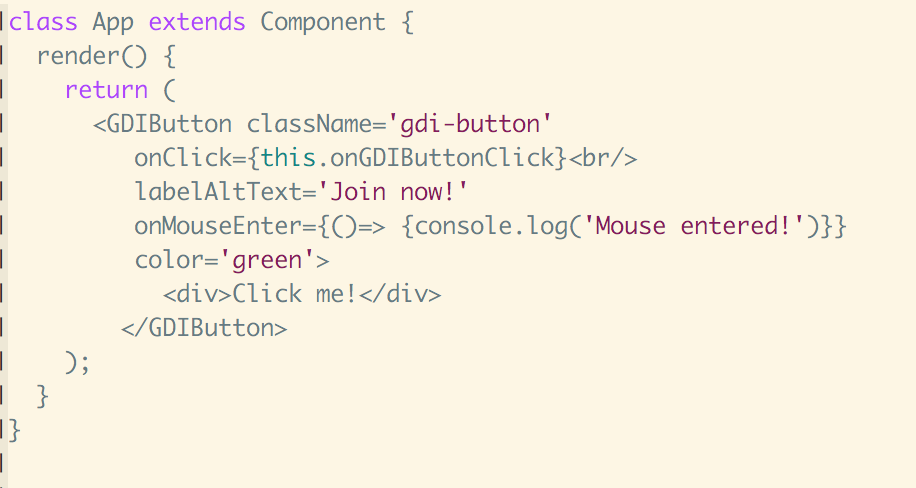
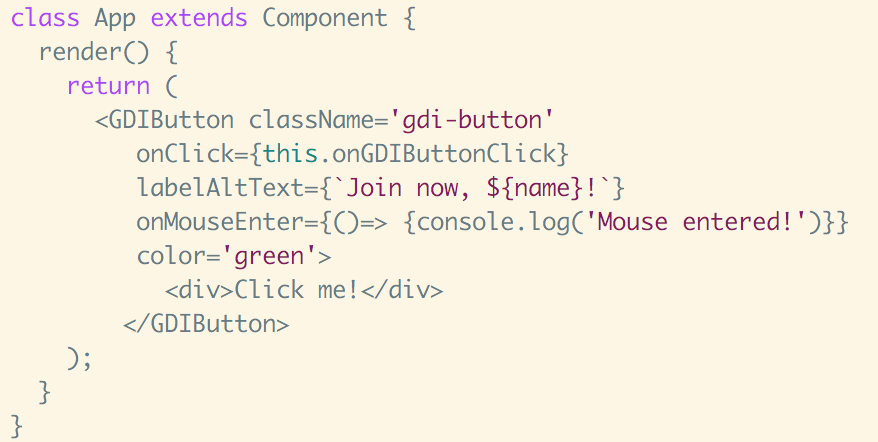
add whole gdi meetup app

diff --git a/part-1-react.html b/part-1-react.html
@@ -457,7 +457,7 @@
                     <li class="fragment">npm (node package manager) allows us to use code published by other developers.</li>
                     <li class="fragment">Use <code>npm install my-package-name</code> to install a package.</li>
                     <li class="fragment">External dependencies are registered in <code>package.json</code> at the root of your project - so anyone trying to run your code has a record of all of its dependencies</li>
-                    <li class="fragment">For this project, we need to use an npm module called <code>creat-react-app</code></li>
+                    <li class="fragment">For this project, we need to use an npm module called <code>create-react-app</code></li>
                   </ul>
                     
 <pre class="fragment"><code contenteditable class="javascript">
@@ -470,22 +470,21 @@ $ create-react-app my-app
 
                                 <section>
                                   <h3>npm project structure</h3>
+                                  <p>Let's see what running <code>create-react-app grocery-list</code> gave us!</p>
 <pre class="fragment"><code>
-                                    .
 ├── README.md
-├── node_modules
+├── node_modules*
 .   ├──
 .   ├── (all dependencies go here!)
 .   └──                                 
 ├── package.json
-├── public
+├── public*
 │   ├── favicon.ico
 │   └── index.html
-└── src
+└── src*
     ├── App.css
     ├── App.js
     ├── App.test.js
-    ├── add-grocery-button.js
     ├── index.css
     ├── index.js
 └── logo.svg
@@ -493,9 +492,48 @@ $ create-react-app my-app
 
                                 </section>
 
-                <section>
-                    <h3>JSX</h3>
-<pre class="fragment"><code contenteditable class="javascript">
+                                <section>
+                                  <h3>What a package.json file looks like</h3>
+<pre class="fragment"><code>
+{
+  "name": "sampleApp",
+  "version": "0.1.0",
+  "private": true,
+  "devDependencies": {           // <- npm modules we need in order 
+    "react-scripts": "0.8.5"     // to work with this code
+  },
+  "dependencies": {              // <- npm modules that we need 
+    "react": "^15.4.2",          // for our code to run
+    "react-dom": "^15.4.2"
+  },
+  "scripts": {                   // <- this is how we'll start our app:
+    "start": "react-scripts start",  // npm start
+    "build": "react-scripts build",
+    "test": "react-scripts test --env=jsdom",
+    "eject": "react-scripts eject"
+  }
+}
+                                       </code></pre>
+
+                                </section>
+                                
+                                <section>
+
+                                  <h3>JSX: What is it?</h3>
+                                  <ul>
+                                    <li>JSX is a <strong>preprocessor step that adds XML syntax to JavaScript.</strong></li>
+                                    <li>You can definitely use React without JSX but JSX makes React a lot more elegant.</li>
+                                    <li>Just like XML, JSX tags have a tag name, attributes, and children.</li>
+                                  </ul>
+                                  <a href="http://buildwithreact.com/tutorial/jsx">(Source)</a>
+
+                                </section>
+                                
+                                <section>
+                  
+                  <h3>JSX</h3>
+                  <p>Note: <code>classname</code> below should be <code>className</code> (slide deck weirdness!)</p>
+<pre class="fragment"><code contenteditable class="jsx">
 class App extends Component {
   render() {
     return (
@@ -515,11 +553,11 @@ class App extends Component {
                 </section>
 
                 <section>
-                  <h3>JSX</h3>
+                  <h3>JSX features</h3>
                   <p>JSX looks a lot like HTML, but uses some of its own syntax & attribute names</p>
                   <ul>
-                    <li><code>className</code> instead of <code>class</code></li>
-                    <li>Event names: <code>onClick, onKeyUp, onChange</code> take care of cross-browser compatibility</li>
+                    <li class="fragment"><code>className</code> instead of <code>class</code> (because <code>class</code> is a reserved keyword in Javascript)</li>
+                    <li class="fragment">Event names: <code>onClick, onKeyUp, onChange</code> take care of cross-browser compatibility</li>
                   </ul>
                 </section>
                 
@@ -531,8 +569,38 @@ class App extends Component {
                 <section>
                   <h3>Props</h3>
                   <p>What are the props being passed to this React component?</p>
-                  <img src="img/props.png" alt="React Props" />
+                  <p class="fragment">What type of item is each prop?</p>
+                  <img width="80%" class="fragment" src="img/props.png" alt="React Props" />
+                  <p>Source: <code>props.js</code></p>
                 </section>
+
+                <section>
+                  <h3>Props: solution</h3>
+                  <ul>
+                    <li class>className:<span class="fragment"> string</span></li>
+                    <li>onClick:<span class="fragment"> function</span></li>
+                    <li>labelAltText:<span class="fragment"> interpolated string </span></li>
+                    <li>onMouseEnter:<span class="fragment"> function </span></li>
+                    <li>color:<span class="fragment"> string</span></li>
+                  </ul>
+                </section>
+
+                <section>
+                  <h3>Literal vs. Interpreted Props</h3>
+                  <p class="fragment">Some props take literal values like strings or numbers
+                    <ul class="fragment">
+                      <li><code>className="app-header"</code></li>
+                      <li><code>itemCount=3</code></li>
+                  </p><br/>
+                  <p class="fragment">If the value of the prop is Javascript code (including a function reference or anonymous function), it needs to be wrapped in brackets: <code>{}</code>
+                    <ul class="fragment">
+                      <li><code>text={`Today's date is ${date}.`}</code></li>
+                      <li><code>onClick={this.clickHandler}</code></li>
+                      <li><code>onMouseEnter={() => console.log("MOUSE ENTERED"); }</code></li>
+                                       </ul>
+                                       
+                </section>
+                  
 
                 <section>
                   <h3>Style: a special prop</h3>
@@ -542,7 +610,7 @@ class App extends Component {
                     <li>camel-cased properties</li>
                     <li>doesn't take care of browser prefixes</li>
                     <li>need <code>{}</code> for JavaScript evaluation, with <br/>
-                      a style object { ...properties } inside </li>
+                      a style object <code>{ color: 'blue', fontSize: 16 }</code> inside </li>
                   </ul>                  
                 </section>
                 <section>
@@ -554,11 +622,31 @@ class App extends Component {
                   <h3>Components</h3>
                   <p>Reusable Components are the building block of React</p>
                   <ul>
-                    <li>These can be small style components, like styled buttons, section headers, form items that will be used throughout your app;</li>
-                    <li>or app-specific components that are used in only one area, but repeated</li>                  
+                    <li class="fragment">These can be small style components, like <strong>styled buttons,</strong> <strong>section headers,</strong> <strong>form items</strong> that will be used throughout your app;</li>
+                    <li class="fragment">or app-specific components like the sidebar, header menu, or content-area.</li>                  
                 </section>
 
-                
+                <section>
+                  <h3>Components in Action</h3>
+                  <p>Let's find some repeated components on the <a href="https://www.meetup.com/Girl-Develop-It-Philadelphia/"> GDI Meetup page</a></p>
+                </section>
+
+                <section>
+                  <h3>Components in Action: </h3>
+                  <img src="img/gdi-meetups.png">
+                </section>
+
+                <section>
+                  <h3>Let's Develop It</h3>
+                  <p>Write a React component for a Meetup event</p>
+                  <ul>
+                    <li class="fragment">From your root directory, run <code>create-react-app meetup-event</code></li>
+                    <li class="fragment">To bypass the need to authenticate against Meetup's API, we need an npm module that grabs some data from Meetup without authentication using a prepared link.</li>
+                    <li class="fragment"><code>npm install --save fetch-jsonp</code></li>
+                    <li class="fragment">One more thing before we write a React component: component state.</li>
+                  </ul>
+                </section>
+
                 <section>
                   <h3>State</h3>
                   <p>Use <code>state</code> when your component needs to keep track of something</p>
@@ -566,21 +654,25 @@ class App extends Component {
                     <li>Value of a text input</li>
                     <li>Is a menu <strong>open</strong> or <strong>closed</strong>?</li>
                     <li>The items in a grocery list app</li>
+                    <li>The response from the Meetup API</li>
                   </ul>
                 </section>             
 
                 <section>
                   <h3>Setting Up State</h3>
-                  <p>Each React component has a <code>constructor</code> function that gets called before it renders - here's where your initial state should be set.</p>
+                  <ul>
+                    <li class="fragment">Each React component has a <code>constructor</code> function that gets called before it renders - here's where your initial state should be set.</li>
+
+                    <li class="fragment">Bonus: Remember Object-oriented programming? Our new component will <strong>inherit</strong> from React's <code>Component</code> <strong>prototype,</strong> and get custom methods and properties that we define.</li>
+                  </ul>
+                 
 
 <pre class="fragment"><code contenteditable class="javascript">
 class App extends Component {
   constructor(props) {
     super();
     this.state = {
-      menuIsOpen: false,
-      items: [],
-      itemCount: 0,
+       meetups: []
     }
   }    
 }
@@ -606,6 +698,82 @@ class App extends Component {
   }    
 </code></pre>
                 </section>
+
+                <section>
+                  <h3>Let's Develop It</h3>
+                  <p>Back to our Meetup events component</p>
+                  <ul>
+                    <li class="fragment">Inheriting from the Component protoptype, we get some 'lifecycle methods' in our component.</li>
+                    <li class="fragment">The <code>componentDidMount</code> method runs as soon as the component has rendered - this is a good place to fetch data.</li>
+                    <li class="fragment">Back to the magic of React: unless you specify otherwise (in the <code>shouldComponentUpdate</code> method), anytime a component's state or props update, its render method will be called again.</li>
+                  </ul>
+                </section>
+
+                <section>
+                  <h3>Fetch data in componentDidMount</h3>
+                  <ul>
+                    <li>URL to fetch GDI Philly events</li>
+                    <li class="fragment"><a href="https://api.meetup.com/2/events?offset=0&format=json&limited_events=False&group_urlname=girl-develop-it-philadelphia&photo-host=public&page=20&fields=&order=time&desc=false&status=upcoming&sig_id=16894471&sig=dba259eb1fd05294f55c42dc4dbc780678899228">Follow this link and copy the URL</a></li>
+                    <li class="fragment">Once the <code>fetchJsonp</code> gets data and we transform the json into a usable JS object, call <code>setState</code> to add it to the component's state object, which is accessible from the render method.</li>
+                    <li class="fragment">What type of data structure do you think we'll get for the events?</li>
+                    </ul>
+                </section>
+
+                <section>
+                  <h3>The render method</h3>
+                  <ul>
+                    <li class="fragment">The response from Meetup is an object with a <code>results</code> key, which is an array of event objects.</li>
+                    <li class="fragment">We need a new component that will be repeated for each Meetup object: a Meetup component!</li>
+
+<pre class="fragment"><code contenteditable class="javascript">
+    render() {
+        const { meetups } = this.state;
+        return (
+            <div className="meetups">
+                { meetups.map(meetup => <Meetup data={meetup} />)}
+            </div>
+        );
+    }
+</code></pre>
+                </section>
+
+                <section>
+                  <h3>The new Meetup component</h3>
+                  <ul>
+                    <li class="fragment">Copy our component file (App.js) and name it Meetup.js</li>
+                    <li class="fragment">Rename the component and remove everything but the <code>render</code> function for now.</li>
+                  </ul>
+                </section>
+
+                <section>
+                  <h3>PropTypes</h3>
+                  <p>React's PropTypes allow us to make sure that the props being passed to our component are the right type, which makes debugging easier.</p>
+
+<pre class="fragment"><code contenteditable class="javascript">
+Meetup.propTypes = {
+    data: PropTypes.shape({
+        description: PropTypes.string,
+        name: PropTypes.string,
+        rsvp_limit: PropTypes.number,
+    }),
+}
+</code></pre>
+</section>                
+
+                <section>
+                    <h2>Q's?</h2>
+                </section>
+
+                <section>
+                  <h2>Homework</h2>
+                  <ul>
+                    <li>Use the Catfacts API to create a list of Cat facts.</li>
+                    <li>http://catfacts-api.appspot.com/api/facts</li>
+                    <li>Use <code>fetch</code> instead of </code>fetchJsonp</code>.</li>
+                    <li>Fetch a new catfact every 5 seconds using the <code>setInterval</code> function in the <code>componentDidMount</code> method of your App component.</li>
+                    <li>Create a new <code>Fact</code> component that renders each individual fact.</li>
+                </section>
+
                 
                 <section>
                   <h3>Let's Develop It</h3>

diff --git a/props.js b/props.js
@@ -2,8 +2,8 @@ class App extends Component {
   render() {
     return (
       <GDIButton className='gdi-button'
-         onClick={this.onGDIButtonClick}<br/>
-         labelAltText='Join now!'
+         onClick={this.onGDIButtonClick}
+         labelAltText={`Join now, ${name}!`}
          onMouseEnter={()=> {console.log('Mouse entered!')}}        
          color='green'>
            <div>Click me!</div>

diff --git a/part-1-projects/1. sampleApp/src/App.js b/part-1-projects/1. sampleApp/src/App.js
@@ -10,6 +10,7 @@ class App extends Component {
       groceryList: [],
     };
   }
+    
   onIntroClick = () => {
     alert('CLICKED');
   };
